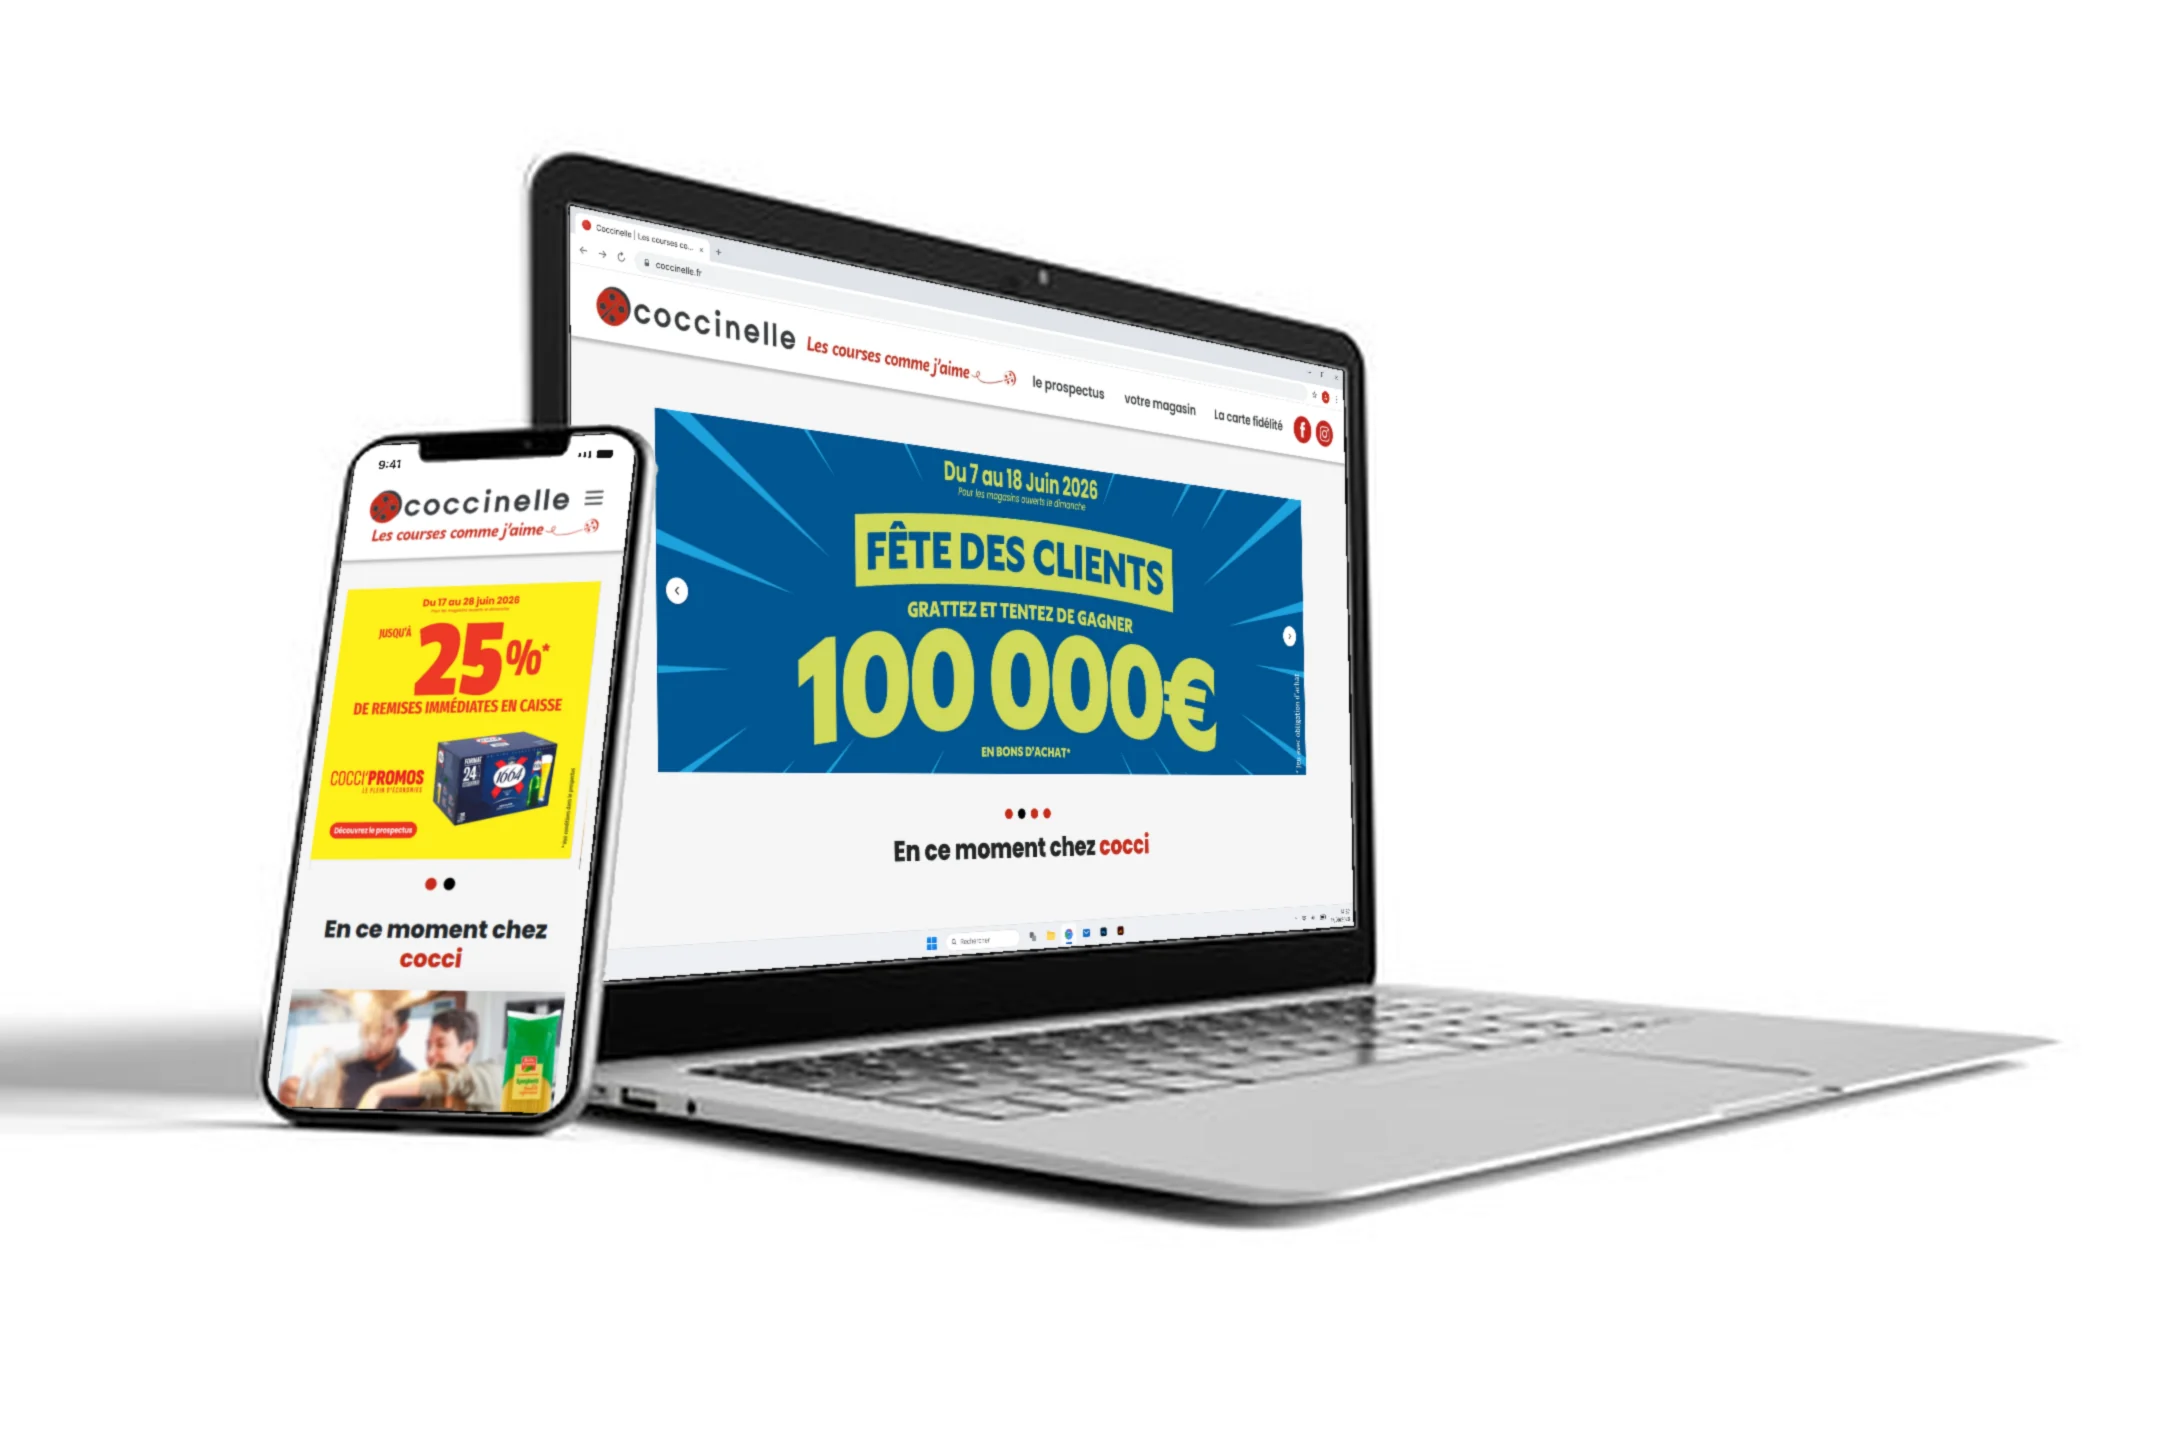
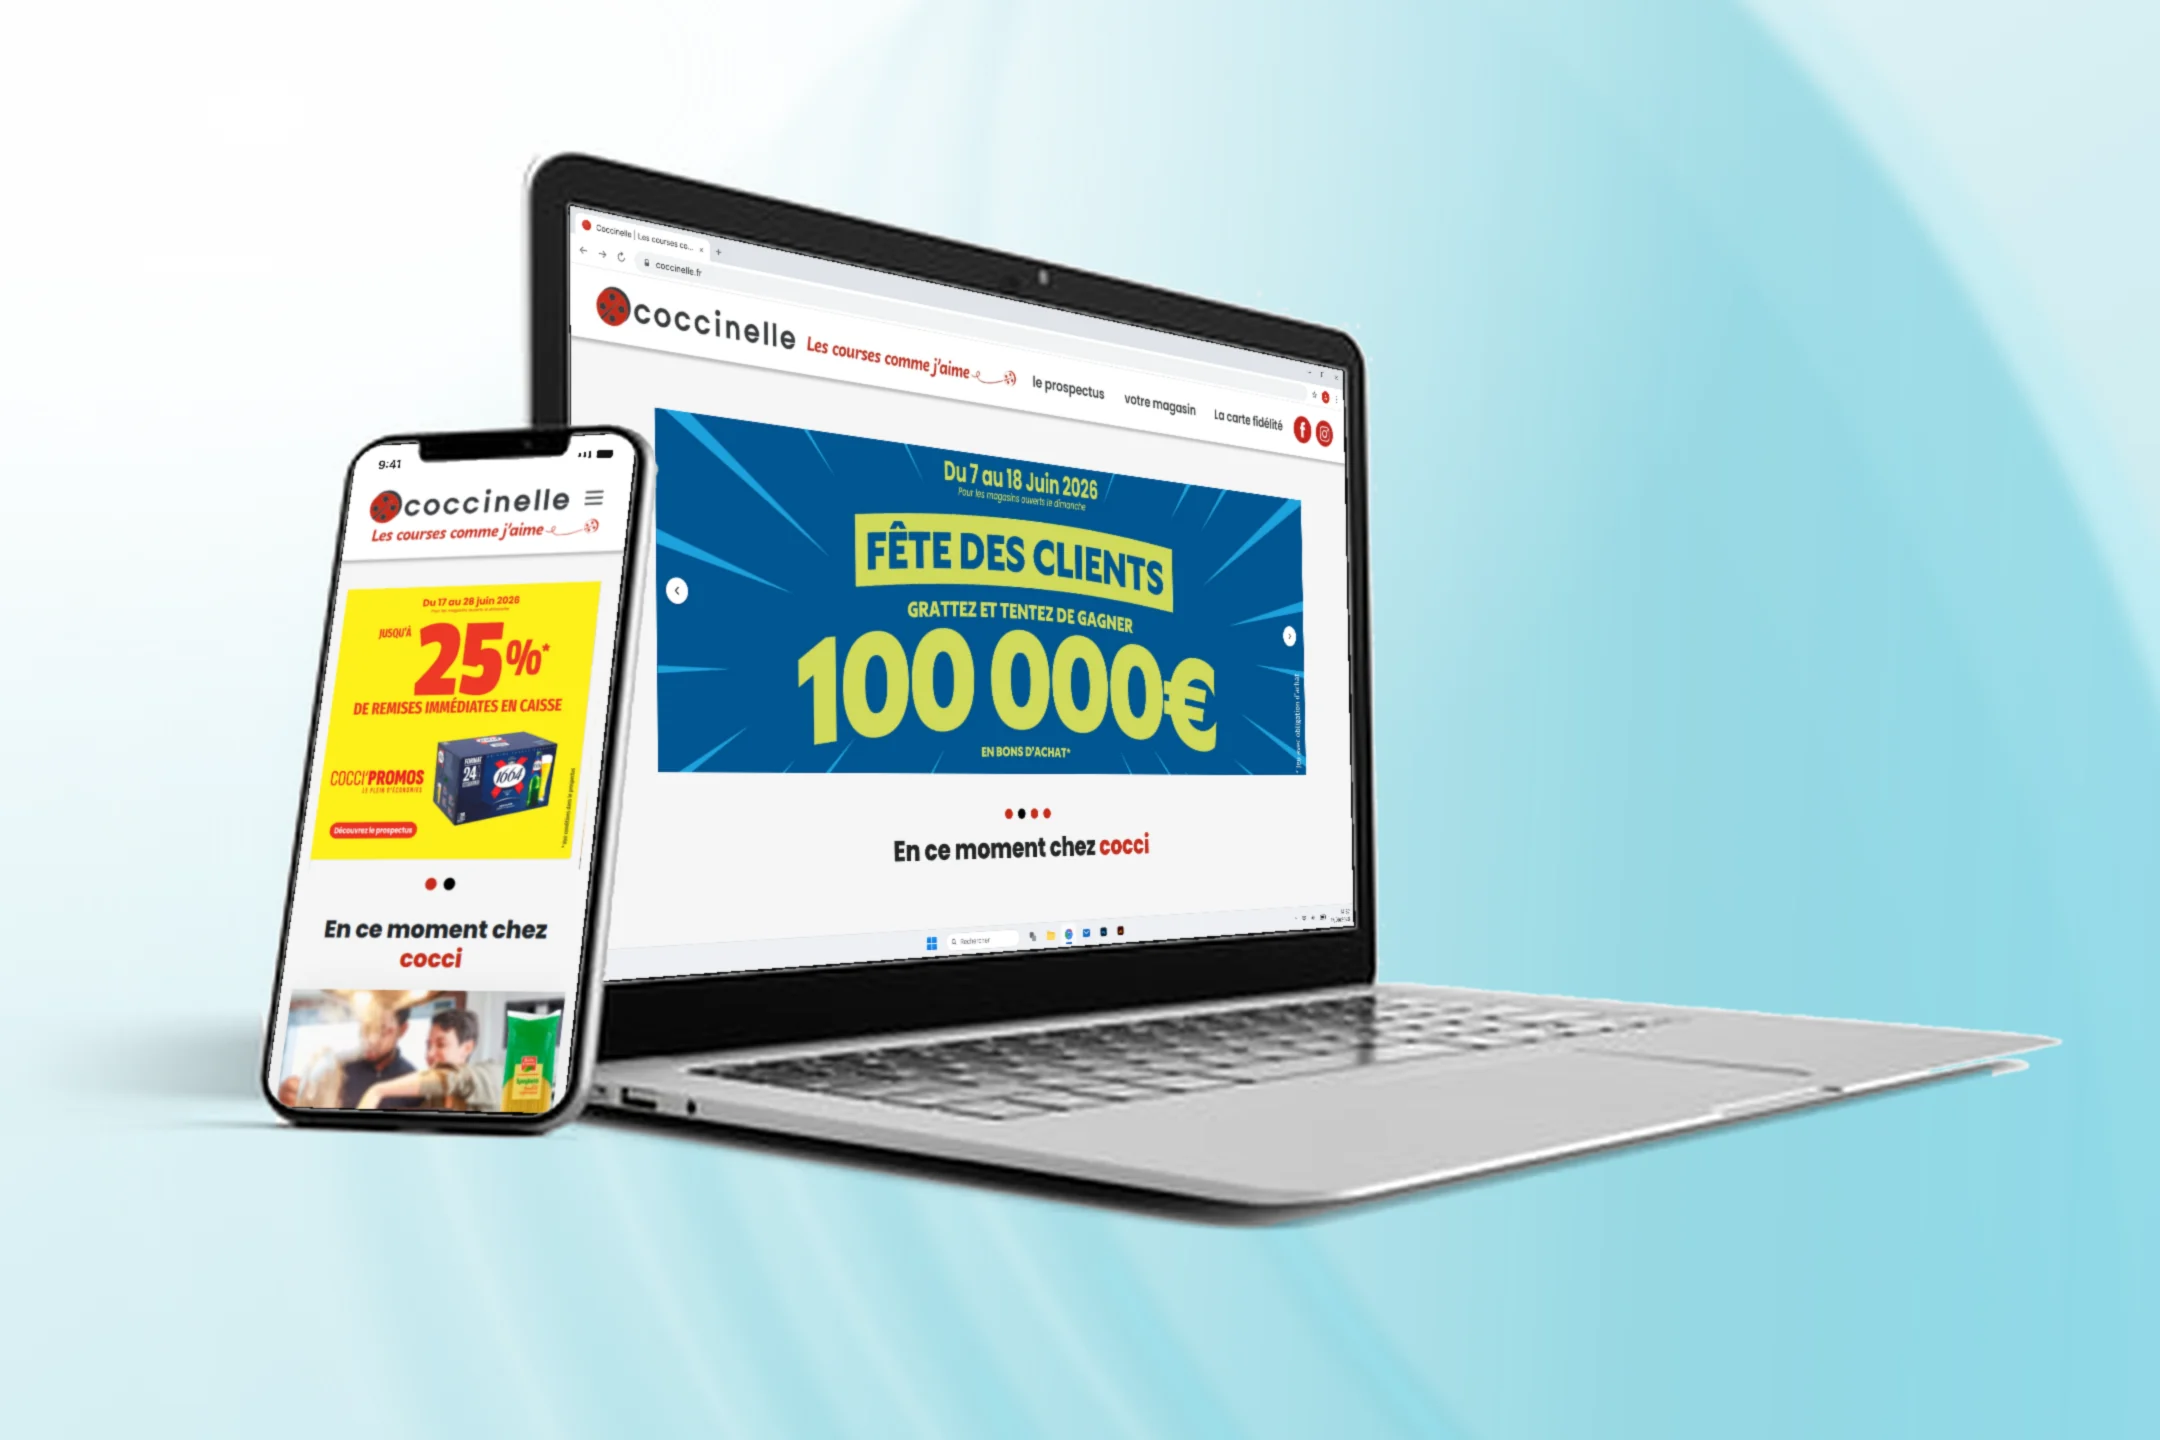
Coccinelle : fond en verre bleu clair derrière les appareils
- Les appareils de la photo sont détourés et posés sur un fond doux
  façon disques en verre (bleu clair), avec leurs ombres d'origine
- Même fond pour la couverture en hauteur et le cadre de la diapositive

Claude-Session: https://claude.ai/code/session_01JUh1WMRQpA7rmiwSH5Zf9N

diff --git a/js/projets.js b/js/projets.js
@@ -37,7 +37,7 @@ window.PROJETS = [
     annee: 2026,
     image: 'assets/projets/coccinelle/couverture.webp',
     apercu: 'assets/projets/coccinelle/mise-en-situation.webp',
-    couleur: '#FFFFFF',
+    couleur: '#D4EEF2',
     encre: '#C62B1C',
     description: "Bannières promotionnelles pour le site coccinelle.fr : « En mai, voisinez, tout est prêt ! » puis la Fête des clients de juin. Chaque offre existe en version ordinateur et en version mobile, avec une remise en très gros pour qu'elle se lise en un coup d'œil.",
     galerie: [
